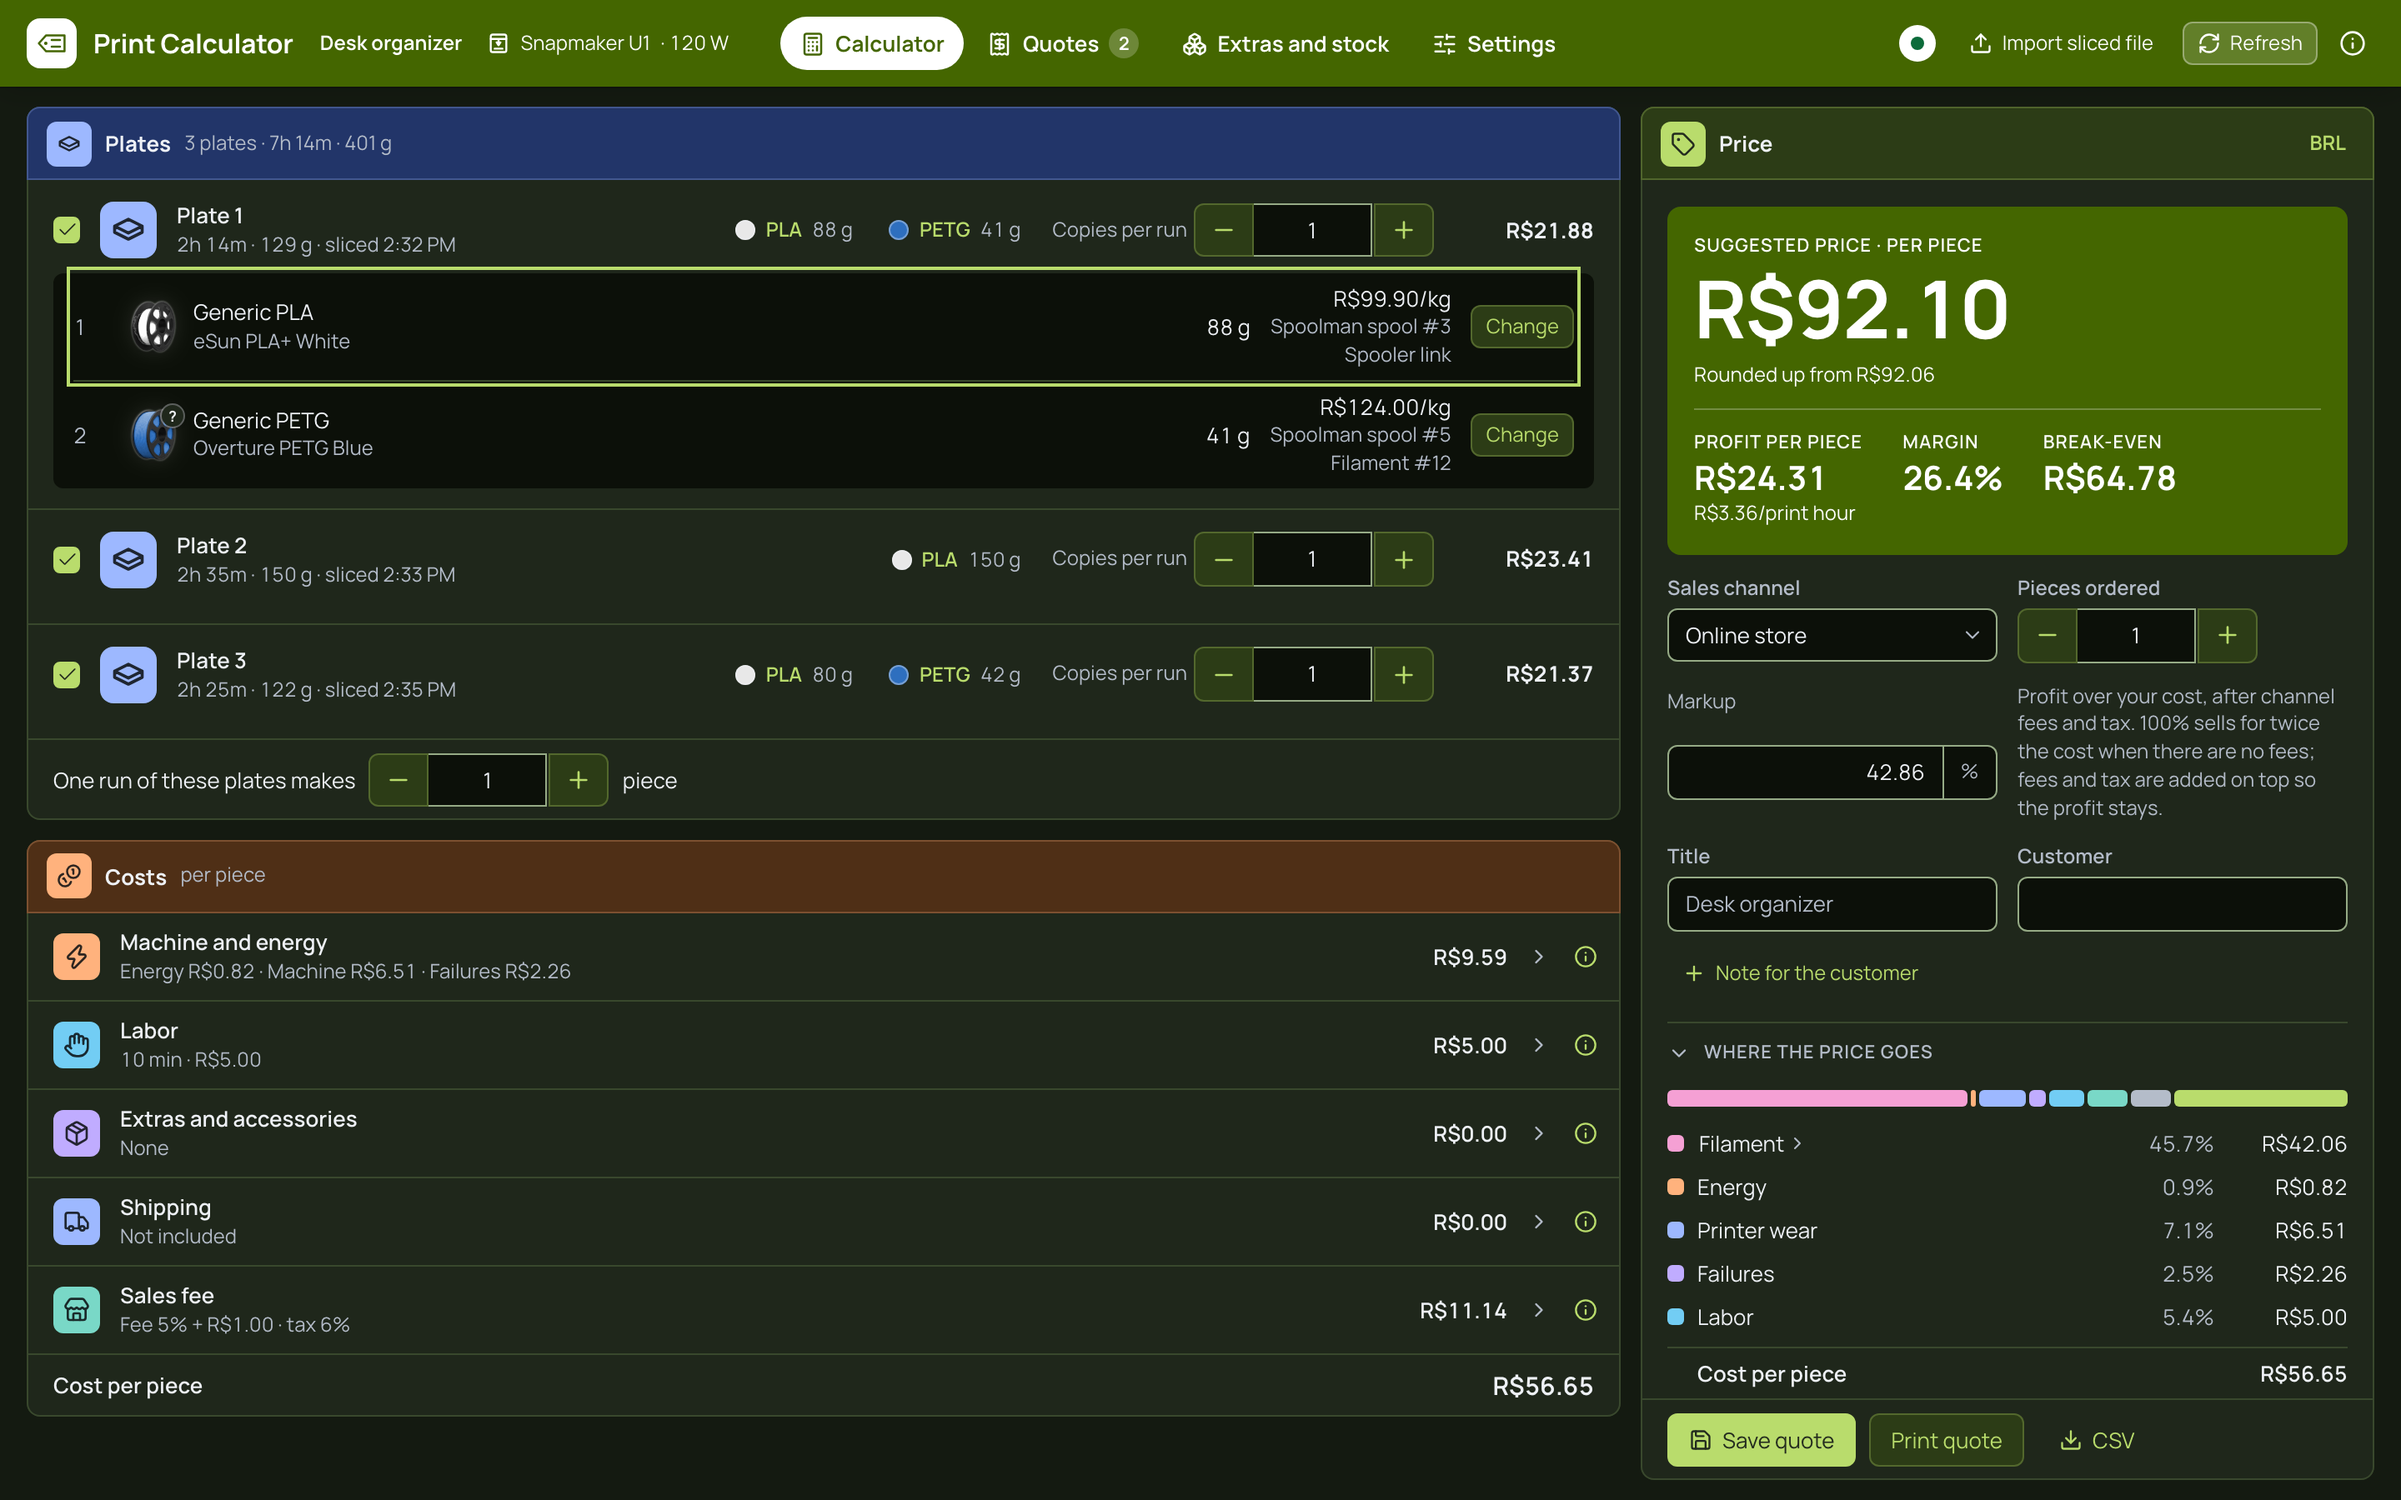
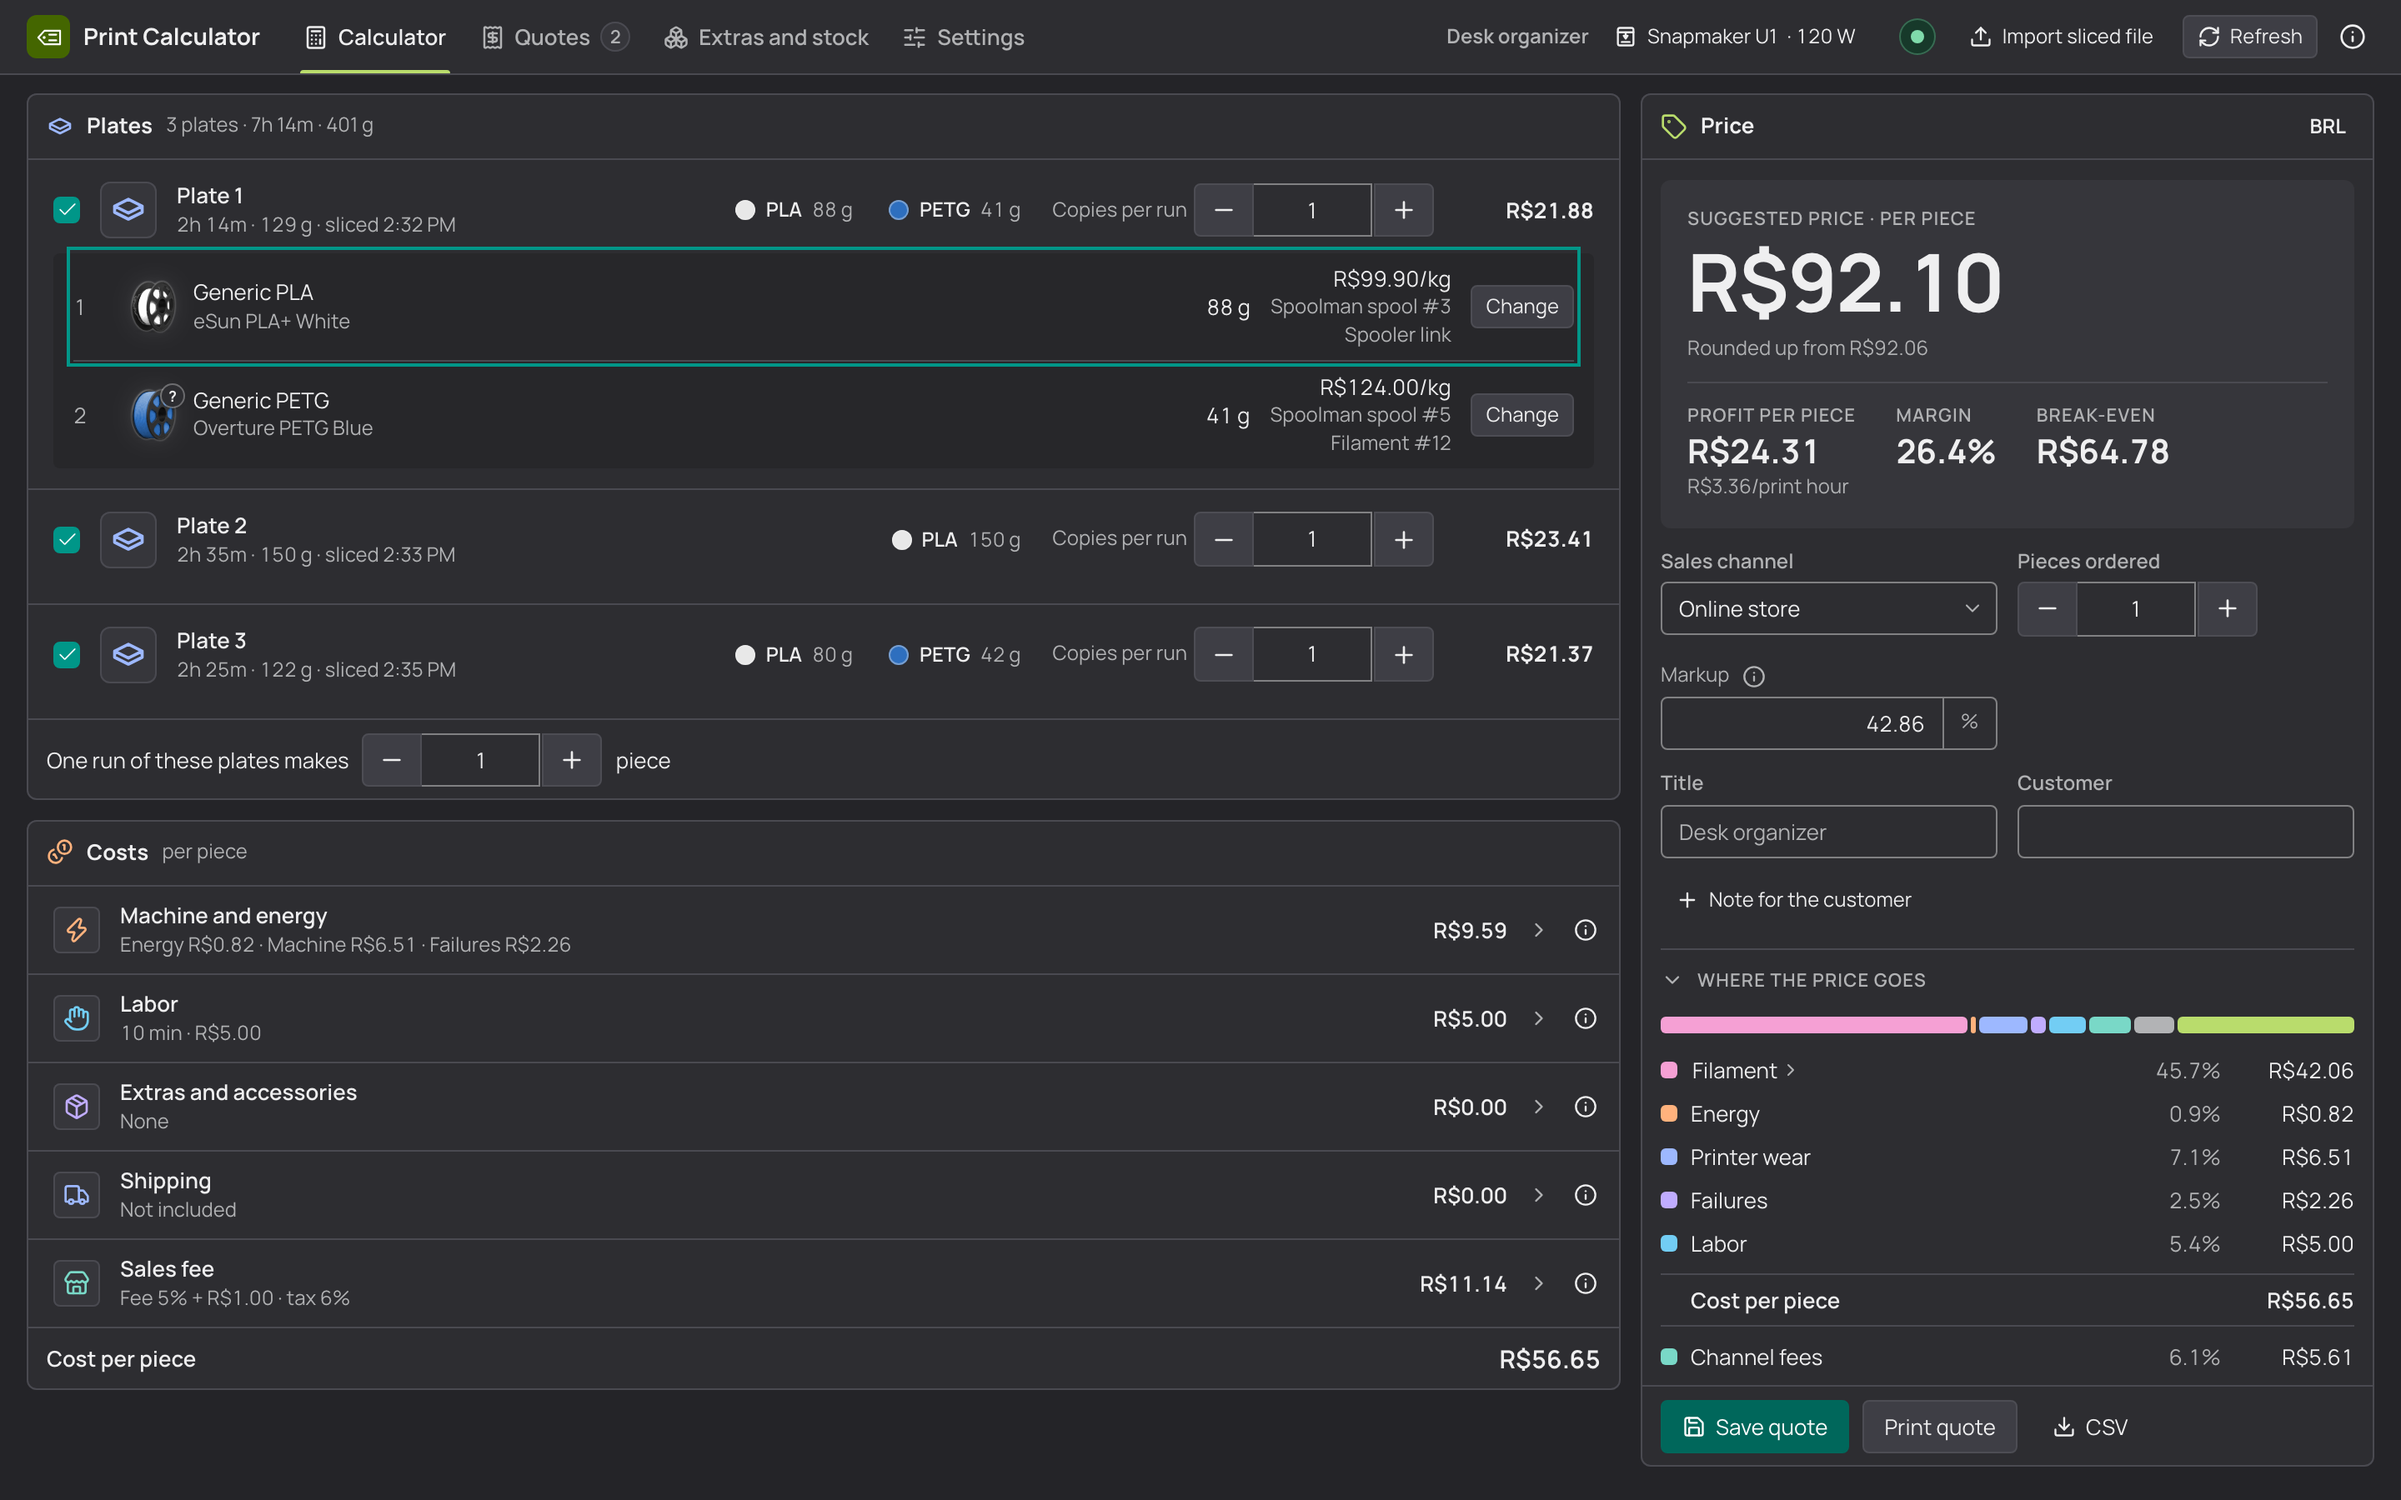
docs(images): re-render the README and listing pictures in the new look
Every export of ui/e2e/brand-shots.mjs and scripts/brand_assets.py, from the
page on the Orca UI foundation 5.0.2, in English and Brazilian Portuguese, and
the byte counts of the listing table in docs/release.md.

A slot capture now ends cleanly: a line, field or button that the bottom edge
(or the price bar at the bottom of the window) would cut in half is hidden.

diff --git a/docs/release.md b/docs/release.md
@@ -56,16 +56,16 @@ The page is <https://cloud.orcaslicer.com/p/521c07cf6de2>. Its text is in [orca-
 
 | Slot | File | Size | Bytes |
 |---|---|---|---|
-| Plugin icon (store tile) | `assets/orca-cloud/orca_print_calculator-tile.png` | 512×512 | 187,848 |
-| Main image | `assets/orca-cloud/orca_print_calculator-main-en.png`<br>`assets/orca-cloud/orca_print_calculator-main-pt-BR.png` | 1600×900 | 1,257,067 / 1,221,579 |
-| Main image, square | `assets/orca-cloud/orca_print_calculator-main-square-en.png`<br>`assets/orca-cloud/orca_print_calculator-main-square-pt-BR.png` | 900×900 | 853,290 / 840,460 |
-| Gallery 1: filament cost | `assets/orca-cloud/orca_print_calculator-feature-01-filament-en.png`<br>`assets/orca-cloud/orca_print_calculator-feature-01-filament-pt-BR.png` | 1600×900 | 1,252,379 / 1,275,025 |
-| Gallery 2: machine, energy and labour | `assets/orca-cloud/orca_print_calculator-feature-02-costs-en.png`<br>`assets/orca-cloud/orca_print_calculator-feature-02-costs-pt-BR.png` | 1600×900 | 1,324,754 / 1,326,860 |
-| Gallery 3: price with margin | `assets/orca-cloud/orca_print_calculator-feature-03-price-en.png`<br>`assets/orca-cloud/orca_print_calculator-feature-03-price-pt-BR.png` | 1600×900 | 1,270,211 / 1,239,578 |
-| Gallery 4: saved quotes | `assets/orca-cloud/orca_print_calculator-feature-04-quotes-en.png`<br>`assets/orca-cloud/orca_print_calculator-feature-04-quotes-pt-BR.png` | 1600×900 | 1,235,968 / 1,228,029 |
-| GitHub social preview | `assets/social/orca_print_calculator-social-preview-en.png`<br>`assets/social/orca_print_calculator-social-preview-pt-BR.png` | 1280×640 | 780,973 / 791,651 |
-| README hero, dark | `assets/readme/orca_print_calculator-hero-dark-en.png`<br>`assets/readme/orca_print_calculator-hero-dark-pt-BR.png` | 1600×900 | 1,222,686 / 1,242,722 |
-| README hero, light | `assets/readme/orca_print_calculator-hero-light-en.png`<br>`assets/readme/orca_print_calculator-hero-light-pt-BR.png` | 1600×900 | 1,279,922 / 1,241,248 |
+| Plugin icon (store tile) | `assets/orca-cloud/orca_print_calculator-tile.png` | 512×512 | 187,169 |
+| Main image | `assets/orca-cloud/orca_print_calculator-main-en.png`<br>`assets/orca-cloud/orca_print_calculator-main-pt-BR.png` | 1600×900 | 1,277,846 / 1,243,915 |
+| Main image, square | `assets/orca-cloud/orca_print_calculator-main-square-en.png`<br>`assets/orca-cloud/orca_print_calculator-main-square-pt-BR.png` | 900×900 | 834,185 / 819,831 |
+| Gallery 1: filament cost | `assets/orca-cloud/orca_print_calculator-feature-01-filament-en.png`<br>`assets/orca-cloud/orca_print_calculator-feature-01-filament-pt-BR.png` | 1600×900 | 1,251,519 / 1,276,625 |
+| Gallery 2: machine, energy and labour | `assets/orca-cloud/orca_print_calculator-feature-02-costs-en.png`<br>`assets/orca-cloud/orca_print_calculator-feature-02-costs-pt-BR.png` | 1600×900 | 1,293,843 / 1,280,418 |
+| Gallery 3: price with margin | `assets/orca-cloud/orca_print_calculator-feature-03-price-en.png`<br>`assets/orca-cloud/orca_print_calculator-feature-03-price-pt-BR.png` | 1600×900 | 1,226,476 / 1,189,040 |
+| Gallery 4: saved quotes | `assets/orca-cloud/orca_print_calculator-feature-04-quotes-en.png`<br>`assets/orca-cloud/orca_print_calculator-feature-04-quotes-pt-BR.png` | 1600×900 | 1,226,757 / 1,213,850 |
+| GitHub social preview | `assets/social/orca_print_calculator-social-preview-en.png`<br>`assets/social/orca_print_calculator-social-preview-pt-BR.png` | 1280×640 | 785,028 / 797,180 |
+| README hero, dark | `assets/readme/orca_print_calculator-hero-dark-en.png`<br>`assets/readme/orca_print_calculator-hero-dark-pt-BR.png` | 1600×900 | 1,243,180 / 1,263,469 |
+| README hero, light | `assets/readme/orca_print_calculator-hero-light-en.png`<br>`assets/readme/orca_print_calculator-hero-light-pt-BR.png` | 1600×900 | 1,295,848 / 1,257,203 |
 
 The GitHub social preview is set in the repository settings, not on Orca Cloud. The README heroes are listed for completeness.
 
